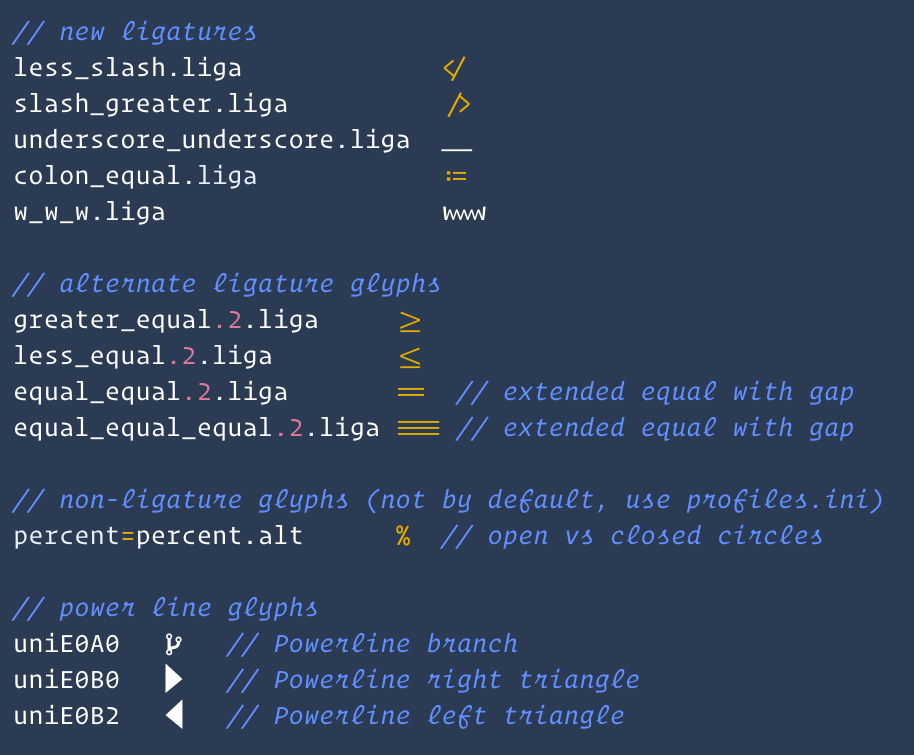
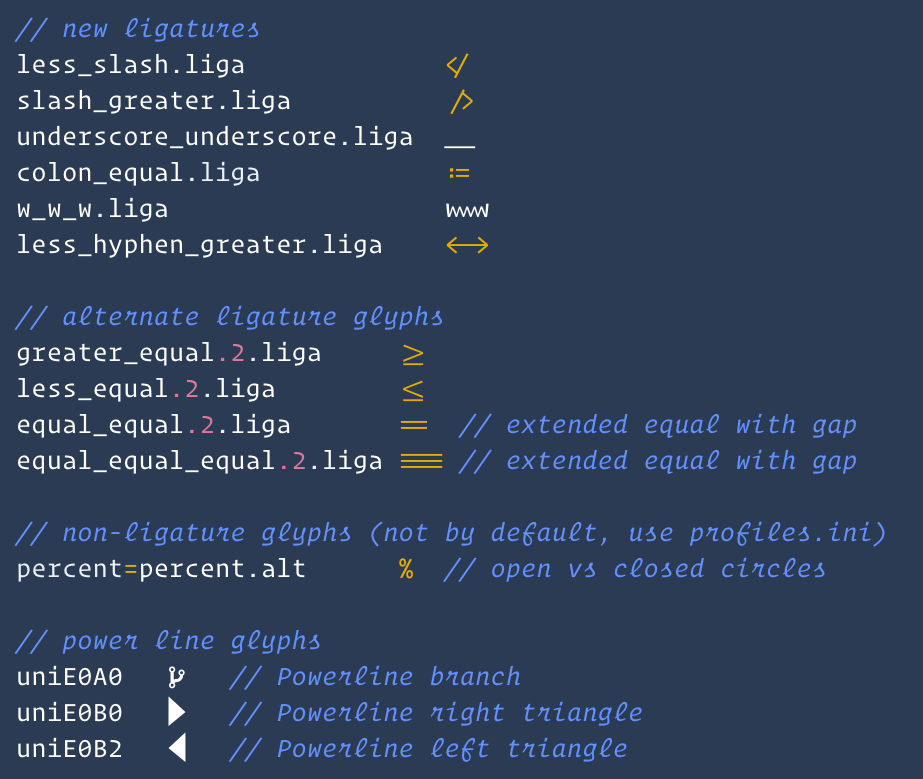
🚀 Deploy v2.2.7 with less_hyphen_greater ligature

diff --git a/newligatures.go b/newligatures.go
@@ -4,6 +4,7 @@ slash_greater.liga          />
 underscore_underscore.liga  __
 colon_equal.liga            :=
 w_w_w.liga									www
+less_hyphen_greater.liga		<->
 
 // alternate ligature glyphs
 greater_equal.2.liga     >=
@@ -18,5 +19,3 @@ percent=percent.alt      % 	// open vs closed circles
 uniE0A0 			// Powerline branch
 uniE0B0 	 	// Powerline right triangle
 uniE0B2 	 	// Powerline left triangle
-
-
